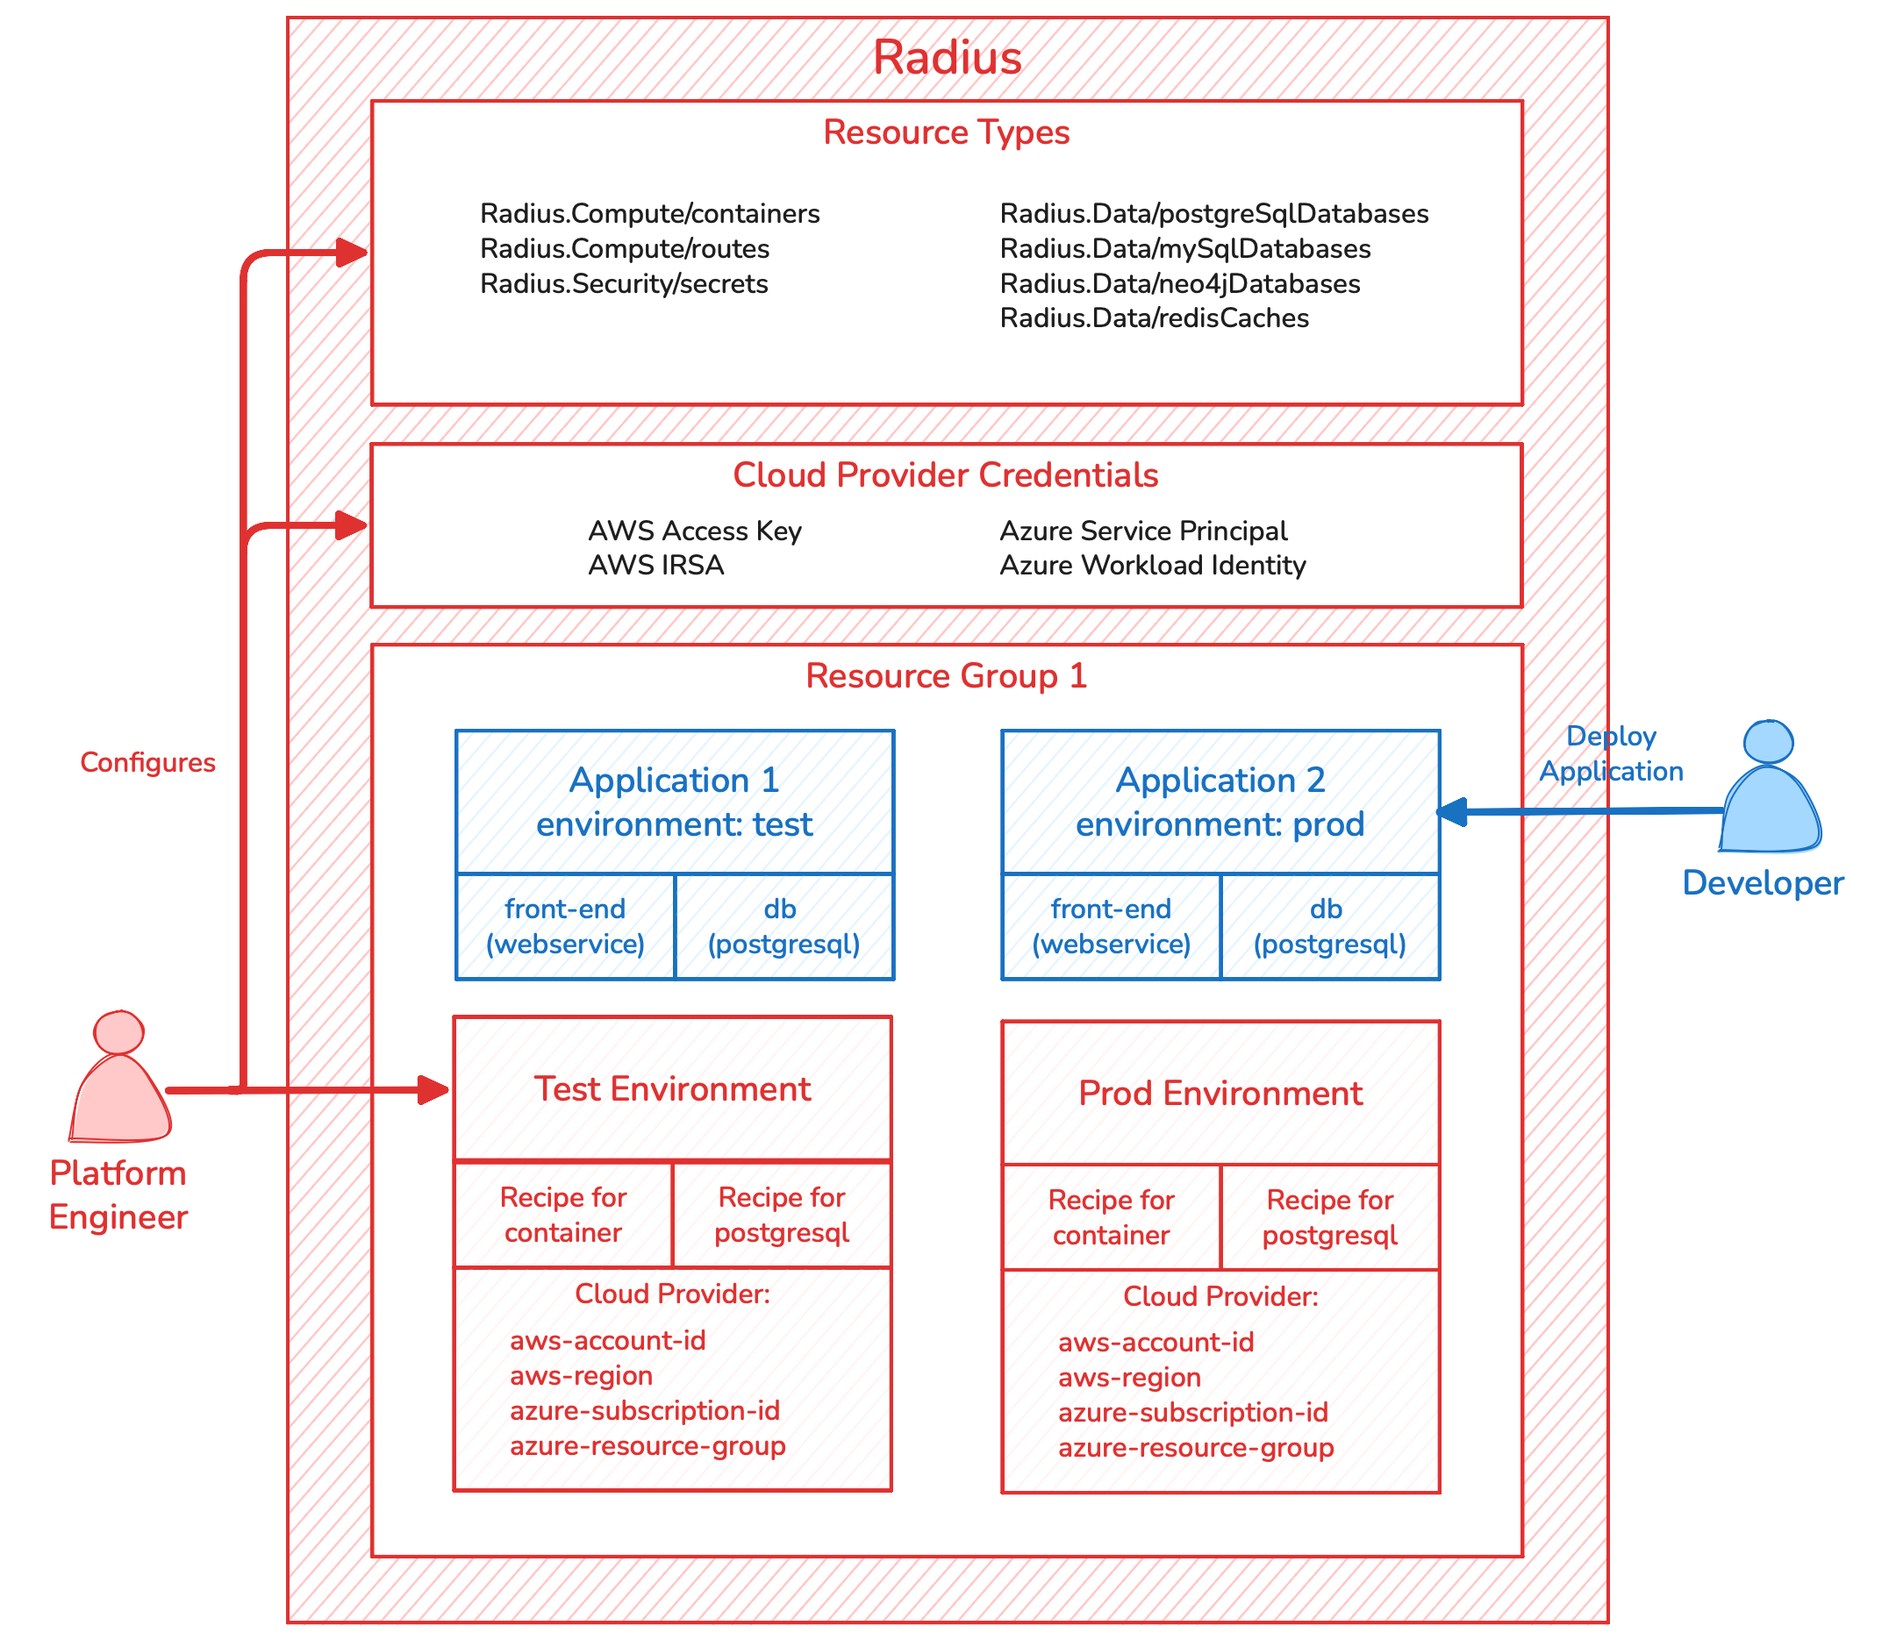
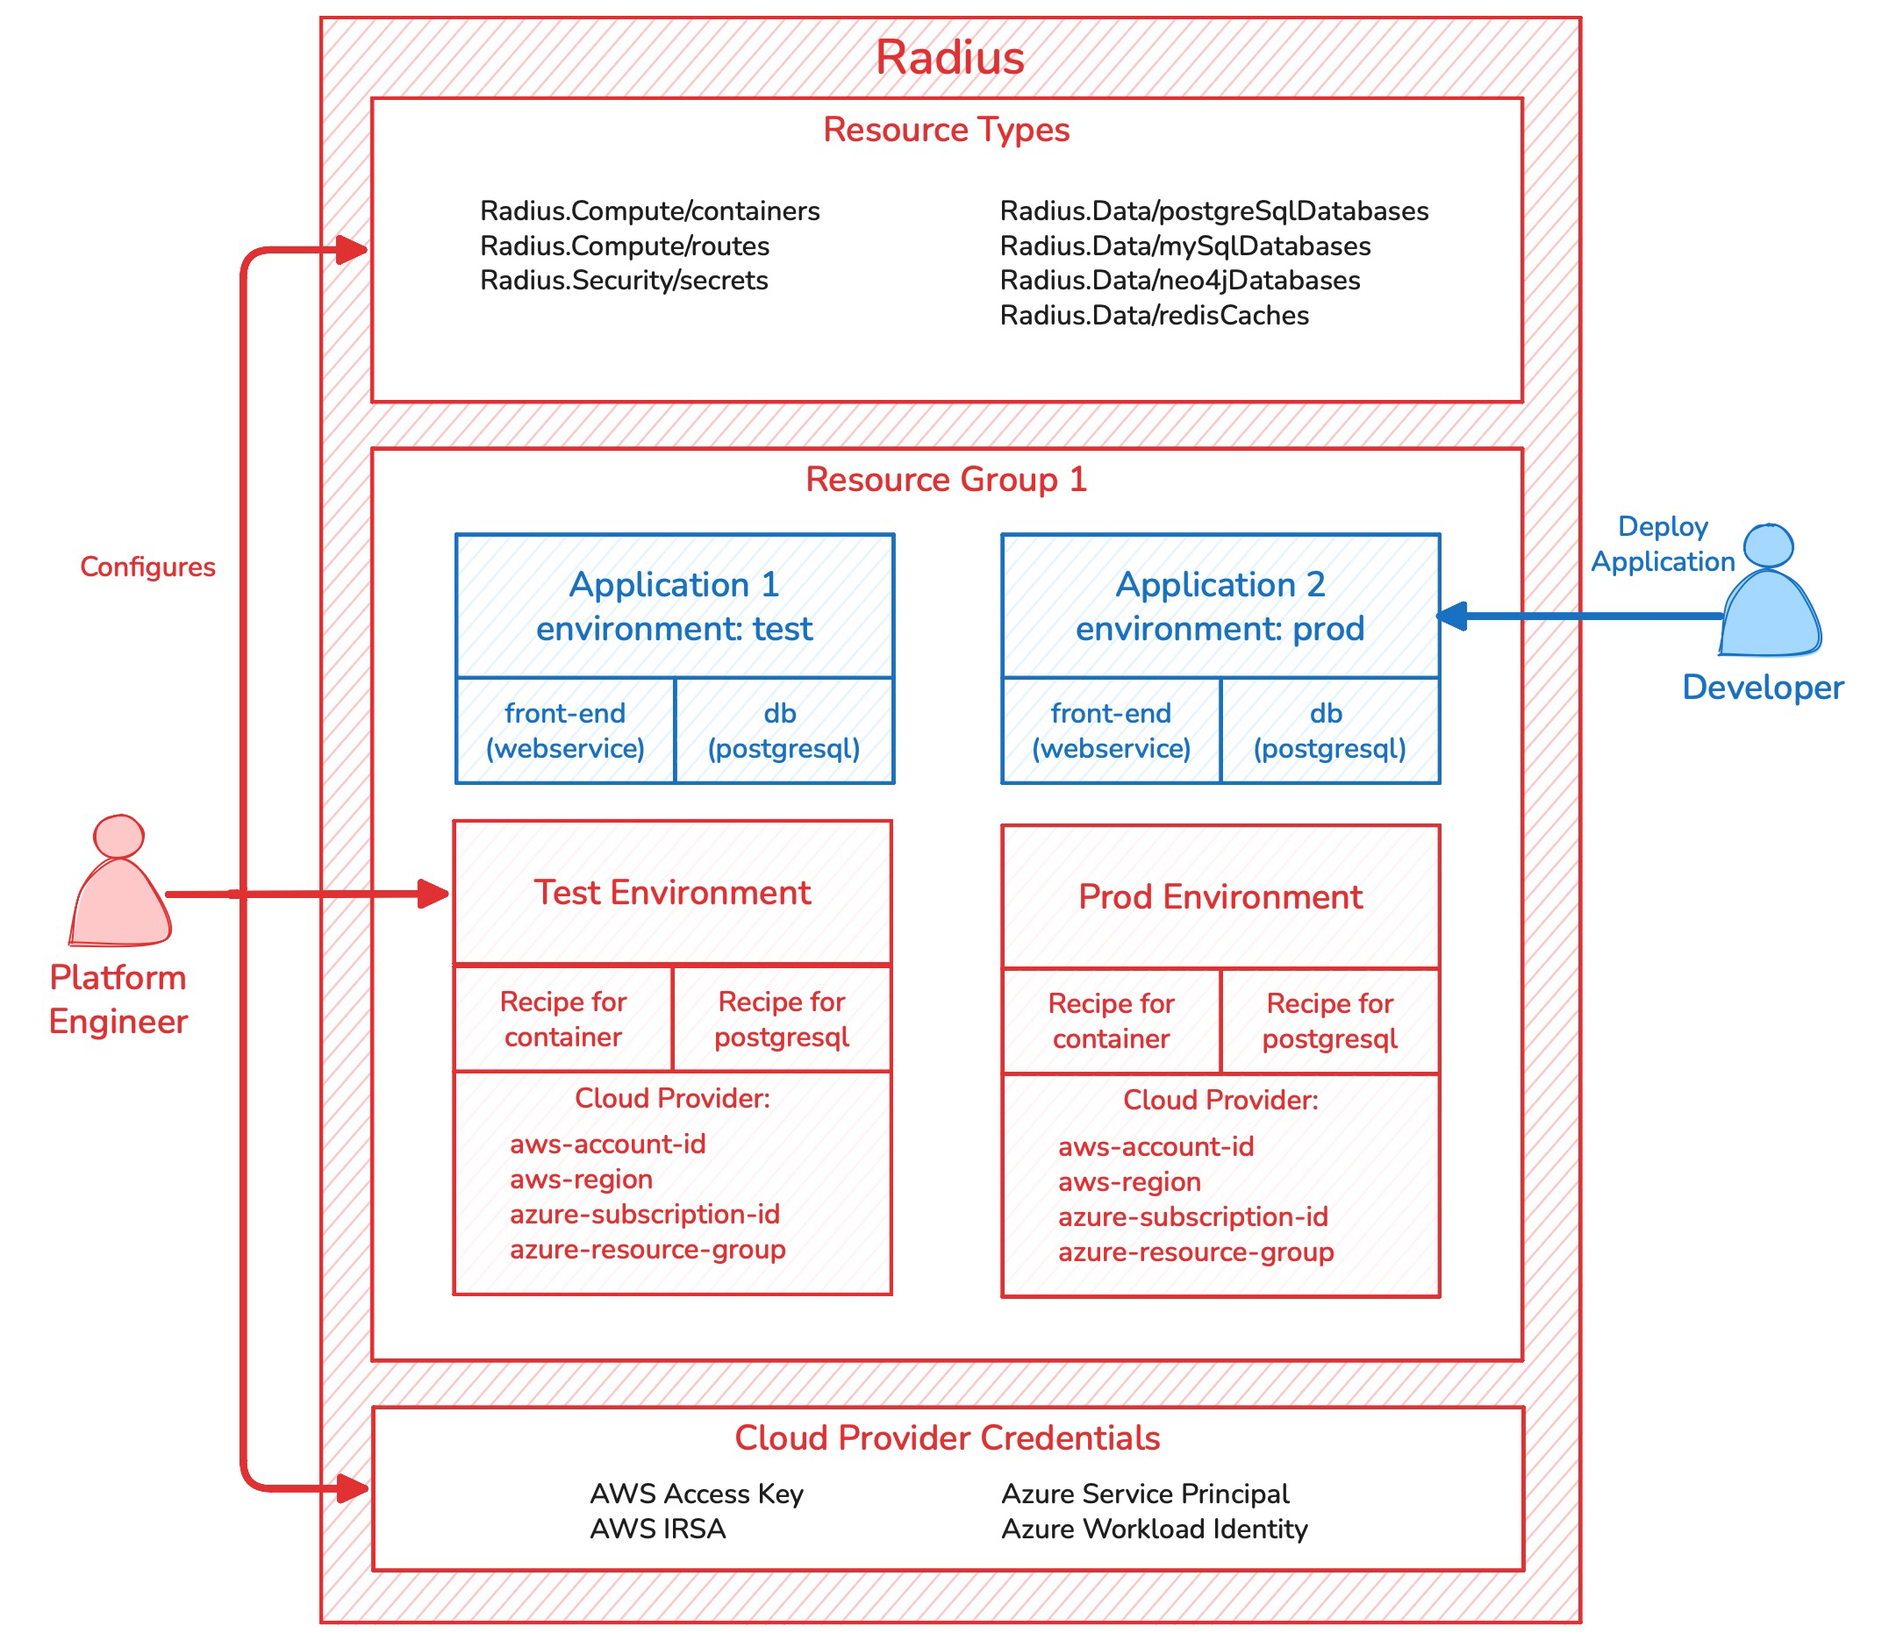
Significant revisions to text

Changed region(s): [[0.0311, 0.0, 0.9647, 0.9925], [0.249, 0.1241, 0.4357, 0.1861]]

diff --git a/docs/content/concepts/_index.md b/docs/content/concepts/_index.md
@@ -8,27 +8,27 @@ weight: 20
 
 ## Introduction
 
-Radius is a platform for managing application resources deployed to the cloud. It is a central component of modern-day internal developer platform (IDP) and allows platform engineers to define resource types for developers to use when building their applications, and separately, the implementation of those resource types using existing Infrastructure as Code (IaC) templates and modules. Additionally, Radius enables platform engineers to define logical environments with specific deployment targets (e.g., a specific cloud provider region), each with their own IaC implementation. 
+Radius is a platform for managing application resources deployed to the cloud. It is a central component of a modern-day internal developer platform (IDP) and allows platform engineers to define resource types for developers to use when building their applications, and separately, the implementation of those resource types using existing Infrastructure as Code (IaC) templates and modules. Additionally, Radius enables platform engineers to define logical environments with specific deployment targets (e.g., a specific cloud provider region), each with their own IaC implementation. 
 
-This page is a conceptual overview of Radius. It describes how Radius integrates with other IDP components, its logical components, and its technical architecture. It is accompanied by additional concept pages focused on each of the core components: Resource Types, Recipes, Environments, and Applications. If you are new to Radius, you are encouraged to complete the [Quick Start]({{< ref "quick-start" >}}). Then, after reading the concept documentation, complete the end-to-end [tutorial]({{< ref "tutorials" >}}).
+This page is a conceptual overview of Radius. It describes how Radius fit in with other IDP components, its logical components, and its technical architecture. <!-- It is accompanied by additional concept pages focused on each of the core components: Resource Types, Recipes, Environments, and Applications.  --> If you are new to Radius, you are encouraged to complete the [Quick Start]({{< ref "quick-start" >}}). Then, after reading the concept documentation, complete the end-to-end [tutorial]({{< ref "tutorials" >}}).
 
 ## IDP reference architecture
 
-Developers are often tasked with writing low-level IaC code. For example, they may author a Helm chart to deploy their containers to Kubernetes and, separately, a CloudFormation template to deploy an AWS RDS database. In this reference architecture, cloud resources are defined separately from the deployment implementation. Developers define their applications and application resources abstractly using resource types the platform engineer has defined. Platform engineers then separately use IaC solutions to implement how the resources are deployed.
+Developers are often tasked with writing low-level IaC code. For example, they may author a Helm chart to deploy their containers to Kubernetes then a CloudFormation template to deploy an AWS RDS database. In this reference architecture, cloud resources are defined separately from the deployment implementation. Developers define their applications and application resources abstractly using resource types the platform engineer has defined. Platform engineers then use IaC solutions to implement how the resources are deployed.
 
 The diagram below is a reference architecture for an IDP that incorporates these concepts.
 
 {{< image src="reference-arch.png" width="65%" alt="IDP reference architecture" >}}
 
-You will notice that resources are defined separately from the deployment of the resource. These resource types are abstract and application-oriented, and infrastructure and cloud provider agnostic. For example, rather than an Azure Database for PostgreSQL flexible server resource definition and deploy, simply a PostgreSQL database resource type is defined. Then the resource deployment implementation may deploy to Azure.
+Notice that resources are defined separately from the deployment of the resource. These resource types are abstract, application oriented, and infrastructure/cloud provider agnostic. For example, rather than an *Azure Database for PostgreSQL Flexible Server* resource that is obviously only deployable to Azure, an abstract PostgreSQL database resource type is defined. Then a swappable resource deployment IaC implementation is used when deploying to Azure.
 
 By separating resource definition from resource deployment, platform engineers are able to:
 
 * Enforce separation of concerns between application developers and platform engineers
-* Define resource types which are higher level and more application oriented 
+* Define resource types with a higher level of abstraction and are more application oriented
 * Eliminate the need for developers to handle low-level infrastructure details
 * Ensure portability between cloud providers and container platforms
-* Enforce infrastructure security, operational, and cost best practices 
+* Enforce infrastructure security, operational, and cost best practices
 
 ## Logical architecture
 
@@ -40,42 +40,64 @@ Radius is designed around a small number of core components. In order to enforce
 
 #### Resource Types
 
-Resource Types define the abstraction, or **interface**, for resource. They are the contract between developers and the platform. They define what the resource is and the required and optional properties used when creating a resource. Since they are abstract, there is a single Resource Type for each resource type in the real world. For example, while Radius may by able to deploy a PostgreSQL database to Kubernetes, AWS, and Azure, there is only one PostgreSQL Resource Type defined within Radius. Platform engineers can use the Resource Types which ship with Radius, community contributed Resource Types in the `resource-type-contrib` repository, or define their own from scratch.
+Resource Types define the abstraction for a resource that will exist in the real world when deployed. Resource Types represent the **interface**, or contract, between developers and the platform. Since they are abstract and application-oriented, there is only one Resource Type defined within Radius for each application resource. For example, a platform engineer may define a PostgreSQL database Resource Type which is an application-oriented abstraction of a one of the many ways of deploying an PostgreSQL database. Resource Types are defined conceptually by what they represent, but concretely by their name, API version, and their schema. The schema contains the set of required and optional properties which are used by developers when defining their application.
 
-#### Credentials
+#### Recipes
 
-When a developer requests a resource to be deployed, those resources are not deployed using the developers credentials. Rather, Radius uses its own Kubernetes, AWS, or Azure credentials. This enables platform engineers to only allow resources to be deployed via Radius. Radius supports creating credentials for AWS and Azure using either secrets or workload identity.
+While Resource Types define the interface, Recipes define the **implementation**. Radius supports using both Terraform and Bicep IaC languages as the Recipe implementation. The term *recipe* is used as a generic term to refer to both a Terraform configuration/module or a Bicep template.
+
+Recipes are not tightly coupled with Radius or the Resource Type. In most circumstances, an existing Terraform module or Bicep template can be used as a Recipe with slight modifications to ensure the properties in the Resource Type map to the Terraform variables or Bicep parameters.
+
+Radius makes it easier to implement Recipes by automatically injecting Recipes with a `context` object which includes *contextual* information needed to deploy the resource. This includes:
+
+- The Application name
+- The Environment name as well as Kubernetes, AWS, and Azure details
+- Parameters specified in the Environment definition (see Environments below)
+- The resource name and all of its properties
+- All connected resources and their properties (connections are discussed later)
+
+By using the `context` object, Recipes have all the information needed to deploy the actual resource in the target location.
+
+#### Environments
+
+Radius Environments define the deployment location as well as the set of Recipes to use to deploy resources to that Environment. Environments can be modeled in many ways according to your preferences. They may be logical environments such as dev, test, stage, prod. Or they may be locations such as AWS us-east-1. They may be specific to an application or a team, or shared across the organization. 
+
+When defining an Environment, the deployment location is specified by `provider`:
+
+- **Kubernetes**: The namespace
+- **AWS**: The account and region
+- **Azure**: The subscription and resource group
+
+When a resource is deployed, these location details are provided to the Terraform module or Bicep template via the `context` object.
+
+The second component of the Environment definition is the set of Recipes for each Resource Type. By assigning Recipes at the Environment level, it is possible for each Environment to have a unique set of Recipes. Take a PostgreSQL database Resource Type as an example, there may be:
+
+- A development environment running on a local workstation that deploys the database to a local Kind or k3d cluster
+- A test environment which deploys to a shared Kubernetes cluster but also assigns more CPU and memory to the database
+- A staging environment that deploys the database to AWS using RDS
+- A production environment that also uses AWS RDS but configures the database with high availability and backups
+
+Finally, each Recipe in an Environment definition can also have Environment-level Recipe parameters. Recipe parameters are useful for injecting additional environmental information into the Recipe. Take, for example, a Recipe which deploys a PostgreSQL database using AWS RDS or Azure Database for PostgreSQL. Ideally, the database is created with an endpoint in an existing VPC/virtual network. The virtual network ID can be passed to the Recipe via a Recipe parameter defined within the Environment. 
 
 #### Resource Groups
 
 All resources are created in one and only one Resource Group. They are analogous to a Kubernetes Namespace or an Azure Resource Group.
 
-#### Recipes
+#### Credentials
 
-While Resource Types define the interface, Recipes define the **implementation**. Radius supports both Terraform and Bicep IaC solutions. The term *recipe* is used as a generic term to refer either to a Terraform configuration/module or a Bicep template. A recipe can be an existing Terraform module stored in a Git repository or a Bicep template stored in an OCI registry. For each Resource Type, there may be multiple Recipes. For example, a PostgreSQL Resource Type may have:
-
-1. A Recipe for local development which deploys to Kubernetes
-2. A Recipe for the test environment which deploys to Kubernetes with more resources
-3. A Recipe for the staging environment that deploys to AWS using AWS RDS
-4. A Recipe for the production environment that deploys to AWS using AWS RDS with high availability and backups configured
-
-Multiple recipes are not required. In the example above, the recipe #1 and #2 could be combined into an enhanced Recipe which has an conditional on the Environment name; e.g., if the Environment name is `test` then set the CPU resource requests to 2, else do not set the CPU resource request.
-
-#### Environments
-
-Because applications defined using Radius do not have infrastructure details in their definitions, platform engineers can define the deployment target without affecting application definitions. In Radius, this deployment target is referred to as an Environment. An Environment is a composed of the target deployment destination (such as what cloud provider and what region) as well as the set of Recipes to use to deploy to that Environment. Environments can also used to configure deployment-time settings for Terraform and Bicep.
+When a developer requests a resource to be deployed, those resources are not deployed using the developers credentials. Rather, Radius uses its own Kubernetes, AWS, or Azure credentials. This enables platform engineers to only allow resources to be deployed via Radius. Radius supports creating credentials for AWS and Azure using either secrets or workload identity.
 
 ### Developer components
 
 #### Applications and resources
 
-Developers build applications. But when they deploy those applications to Kubernetes or other container platforms, the notion of an application is typically lost. Developers are left with a sea of resources that are deployed as a flat list of resources. Maybe the resources are annotated with the application name, but maybe not. This makes it challenging to manage for developers and SREs.
+Developers build applications. But when they deploy those applications to Kubernetes or other container platforms, the notion of an application is typically lost. Developers are left with essentially a flat list of resources. In the best case, the resources are annotated with the application name, but not always. This makes it challenging for developers and SREs to understand what resources belong to what applications. 
 
 Radius takes a different approach and makes the application a first-class resource. With Radius, developers first define an Application resource, then add resources to that Application such as containers and databases. All resources belong to an Application (with some exceptions for resources shared across applications such as shared storage). When an Application is deployed to an Environment, the Application's abstract resource definitions are married with the Environment's cloud-specific Recipes. 
 
 ## Technical architecture
 
-Radius is deployed on a Kubernetes cluster and has its own CLI and Dashboard.
+The diagram below visualizes the technical components that are created when you install Radius on a Kubernetes cluster.
 
 {{< image src="technical-arch.png" width="65%" alt="Technical architecture of Radius" >}}
 
@@ -85,7 +107,7 @@ The Radius CLI, `rad`, is the primary means of interacting with Radius for both 
 
 ### Dashboard
 
-The Radius Dashboard is a developer portal built using Backstage. Its primary purpose is to provide developers with organization-specific developer documentation. The Dashboard includes details for developers on what Resource Types are available for use within their application, as well as a list of Environments they can deploy their application to. Platform engineers can write customized developer documentation for each Resource Type. 
+The Radius Dashboard is a Backstage-based developer portal. Its primary purpose is to provide developers with organization-specific developer documentation. The Dashboard includes details for developers on what Resource Types are available, as well as a list of Environments they can deploy their application to. Platform engineers can write customized developer documentation for each Resource Type. 
 
 When installing Radius, the Dashboard is installed with a Kubernetes Service of type `ClusterIP`. It is left to the platform engineer to configure ingress to the Dashboard.
 
